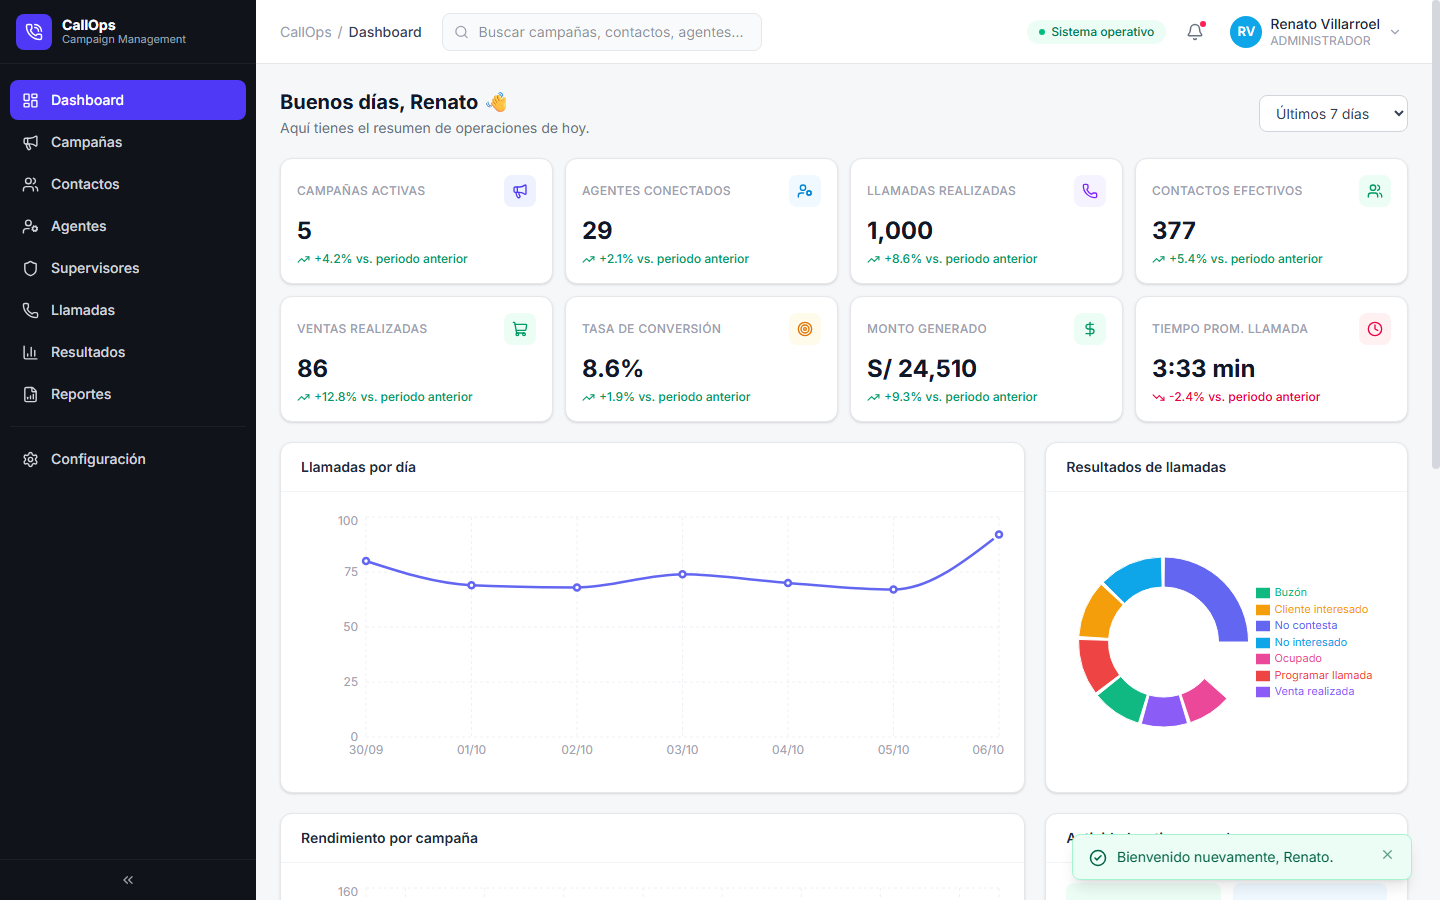
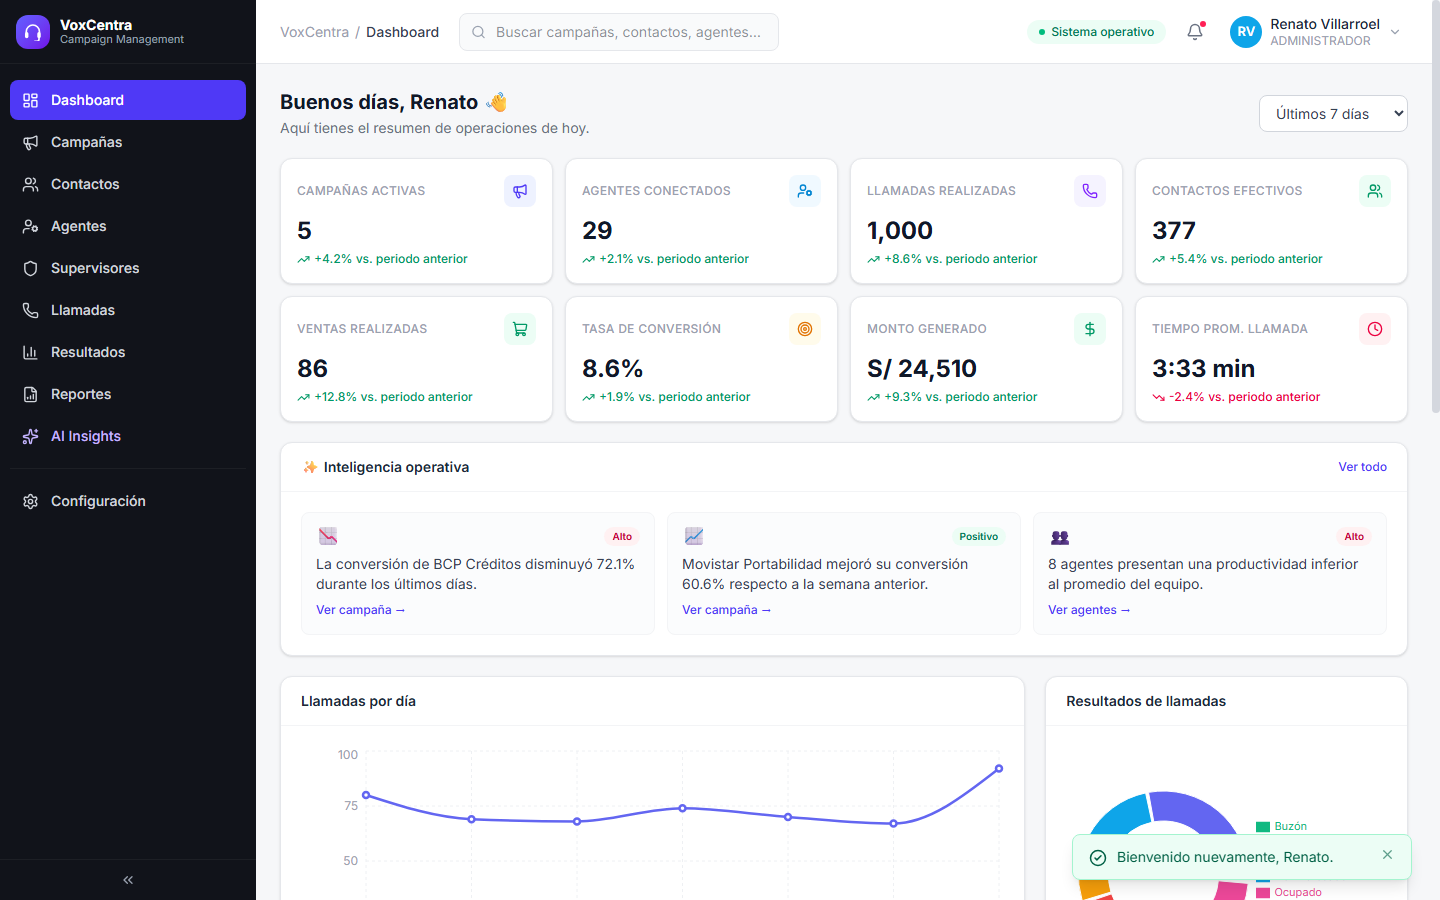
Rebrand CallOps card to VoxCentra and showcase the AI layer
Update title/description and refresh the gallery with the new
headset logo, the AI Insights page, the campaign AI tab, AI Coach and
the VoxCentra AI assistant (7 images total).

diff --git a/index.html b/index.html
@@ -40,7 +40,7 @@
 <link rel="preconnect" href="https://fonts.googleapis.com">
 <link rel="preconnect" href="https://fonts.gstatic.com" crossorigin>
 <link href="https://fonts.googleapis.com/css2?family=Space+Grotesk:wght@400;500;600;700&family=Inter:wght@300;400;500;600;700&family=Fira+Code:wght@400;500&display=swap" rel="stylesheet">
-<link rel="stylesheet" href="css/style.css?v=39">
+<link rel="stylesheet" href="css/style.css?v=40">
 </head>
 <body>
 
@@ -342,12 +342,12 @@
   </div>
 </div>
 
-<script src="js/starfield.js?v=39"></script>
-<script src="js/parallax.js?v=39"></script>
-<script src="js/bg-parallax.js?v=39"></script>
-<script src="js/sphere.js?v=39"></script>
-<script src="js/projects.js?v=39"></script>
-<script src="js/typewriter.js?v=39"></script>
-<script src="js/main.js?v=39"></script>
+<script src="js/starfield.js?v=40"></script>
+<script src="js/parallax.js?v=40"></script>
+<script src="js/bg-parallax.js?v=40"></script>
+<script src="js/sphere.js?v=40"></script>
+<script src="js/projects.js?v=40"></script>
+<script src="js/typewriter.js?v=40"></script>
+<script src="js/main.js?v=40"></script>
 </body>
 </html>

diff --git a/js/projects.js b/js/projects.js
@@ -1,9 +1,9 @@
 const PROJECTS = [
   {
-    slug: 'callops', title: 'CallOps', category: 'saas', country: 'PE',
-    desc: 'Plataforma de gestión de campañas para Call Center: autenticación con roles, dashboard, campañas, contactos, agentes y reportes.',
+    slug: 'callops', title: 'VoxCentra', category: 'saas', country: 'PE',
+    desc: 'Plataforma de gestión de campañas para Call Center con una capa de IA integrada (VoxCentra AI): insights, alertas, AI Coach y asistente conversacional, todo generado a partir de los datos operativos reales.',
     img: 'callops-2.png',
-    gallery: ['callops-1.png', 'callops-2.png', 'callops-3.png', 'callops-4.png', 'callops-5.png', 'callops-6.png']
+    gallery: ['callops-1.png', 'callops-2.png', 'callops-3.png', 'callops-4.png', 'callops-5.png', 'callops-6.png', 'callops-7.png']
   },
   {
     slug: 'kaya-active', title: 'Kaya Active', category: 'web', country: 'PE',
